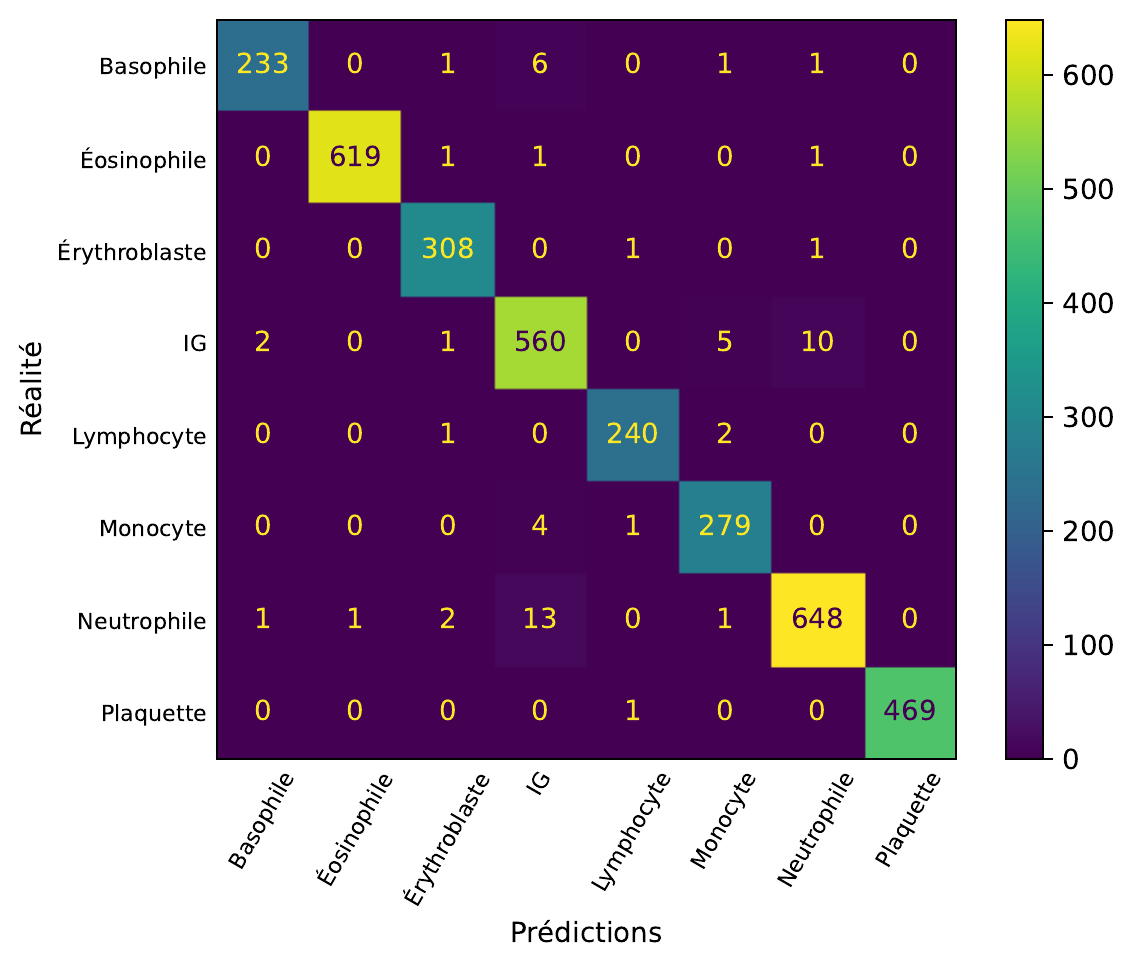
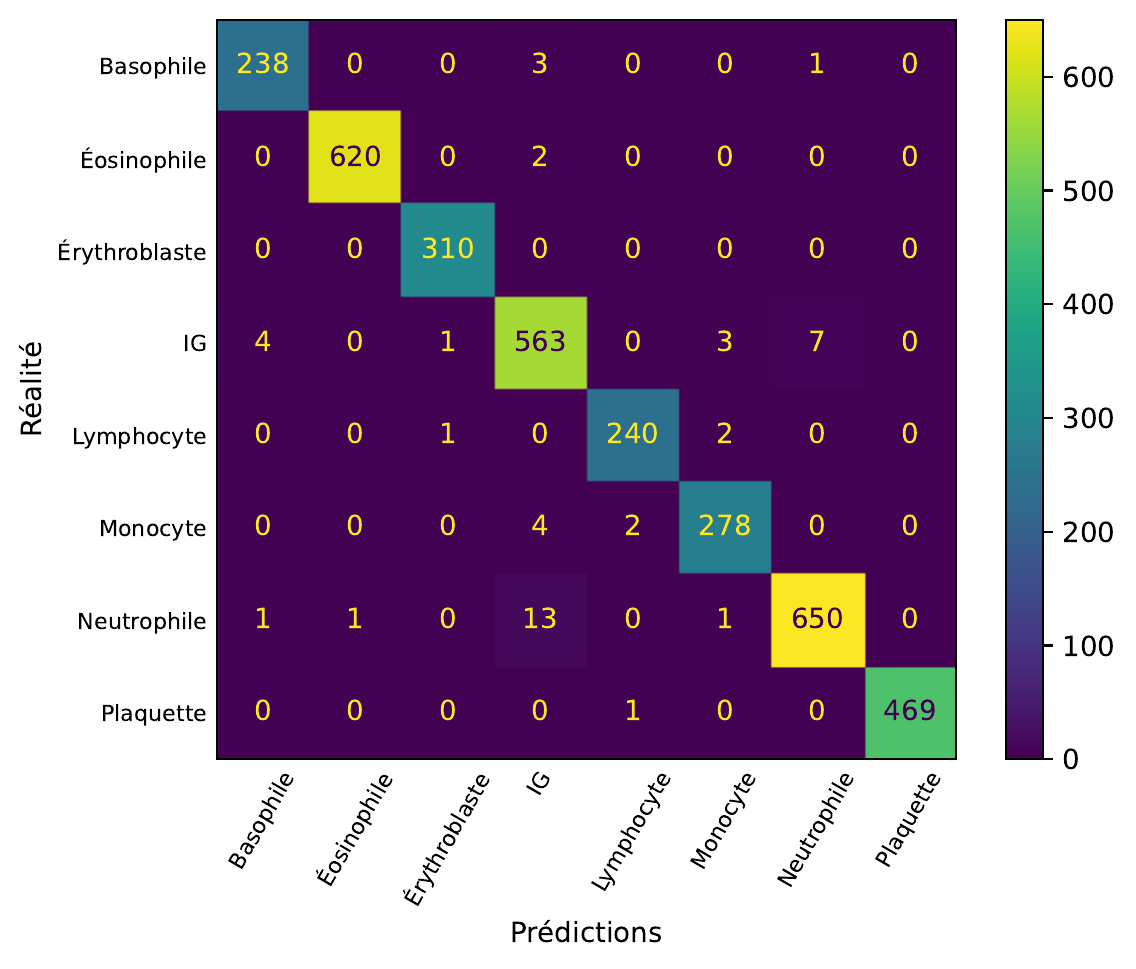
new xception

diff --git a/pages/3_Modèles.py b/pages/3_Modèles.py
@@ -414,8 +414,8 @@ with tab3:
             "Modèle": ["SVM", "XGBoost", "LGBM", "Voting Classifier", 
                         "EfficientNetV2S", "EfficientNetV2M", "DenseNet121", 
                         "ResNet50V2", "VGG19", "Xception", "Ensemble"],
-            "Accuracy (%)": [98.33, 97.72, 97.83, 98.39, 98.97, 98.92, 98.89, 98.77, 98.97, 98.45, 99.21],  
-            "F1 macro (%)": [98.42, 97.72, 97.82, 98.51, 99.02, 98.95, 98.90, 98.87, 99.03, 98.56, 99.24],      
+            "Accuracy (%)": [98.33, 97.72, 97.83, 98.39, 98.97, 98.92, 98.89, 98.77, 98.97, 98.62, 99.21],  
+            "F1 macro (%)": [98.42, 97.72, 97.82, 98.51, 99.02, 98.95, 98.90, 98.87, 99.03, 98.64, 99.24],      
         })
 
         st.dataframe(df_scores[["Modèle", "Accuracy (%)", "F1 macro (%)"]], use_container_width=True, hide_index=True)